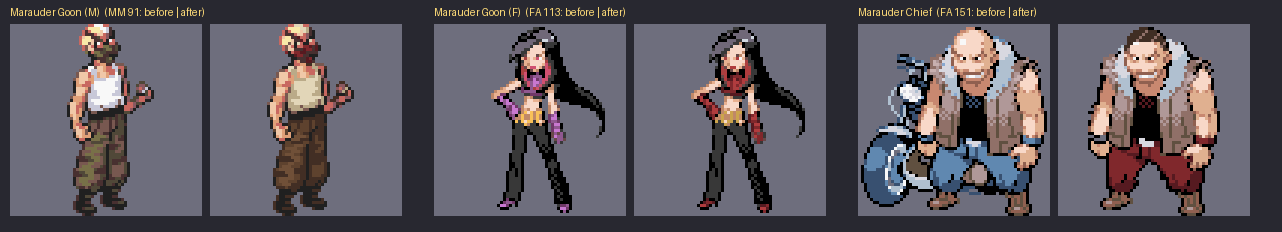
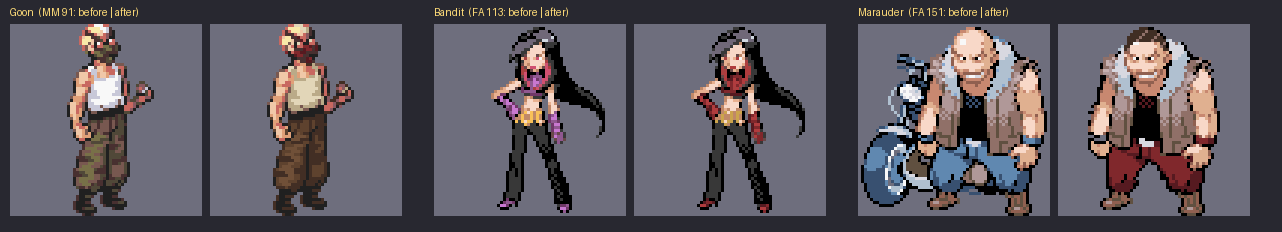
Marauders: class names Goon, Bandit and Marauder
The user: the male goon is a Goon, the female one a Bandit, the chief a
Marauder (all within the 12-character class name limit). Recorded in the
bible (20 section 16.6 item 8), the workflow notes and the sprite tools.

Claude-Session: https://claude.ai/code/session_01FHXnfqnedTHLf5QFbB3MCU

Changed region(s): [[0.0, 0.0302, 0.156, 0.0905], [0.3432, 0.0302, 0.4992, 0.0905], [0.6864, 0.0302, 0.8112, 0.0905]]

diff --git a/tools/npc/marauder/fronts.py b/tools/npc/marauder/fronts.py
@@ -1,10 +1,11 @@
 """The Marauders (user 2026-11-26): a trainer class of pillagers and thieves who rob travellers and sometimes band into
-gangs to invade towns. Three fronts, from the user's picks on marauder_cands_v1.png:
-  Marauder Goon (male)   <- MonoMyth 91, the bald thug: tank top to an undyed linen shirt, camo trousers to brown
+gangs to invade towns. Three fronts, from the user's picks on marauder_cands_v1.png. Class names (user 2026-11-26): the male goon is a
+**Goon**, the female one a **Bandit**, the chief a **Marauder** (the gang as a whole are the Marauders).
+  Goon (male)            <- MonoMyth 91, the bald thug: tank top to an undyed linen shirt, camo trousers to brown
                             leather, the camo face cloth to the gang's oxblood
-  Marauder Goon (female) <- Fantasma 113, the black-clad rogue: the purple top and gloves oxblood, the pink streak in
+  Bandit (female)        <- Fantasma 113, the black-clad rogue: the purple top and gloves oxblood, the pink streak in
                             her hair oxblood, black kept, the belt brass
-  Marauder Chief         <- Fantasma 151, the bald brute (user: "get rid of his bike, center him and give him a
+  Marauder (the chief)   <- Fantasma 151, the bald brute (user: "get rid of his bike, center him and give him a
                             little hair and more medieval clothing"): the motorcycle removed, the figure centred, a
                             short dark crop, the jeans and wristbands oxblood wool and leather (the gang's colour, worn
                             by the chief), the leather vest with its fur collar and the black shirt kept
@@ -169,8 +170,8 @@ def chief():
     return m2, pal
 
 
-FRONTS = [('Marauder Goon (M)', goon_m, 'MM_91'), ('Marauder Goon (F)', goon_f, 'FA_113'),
-          ('Marauder Chief', chief, 'FA_151')]
+FRONTS = [('Goon', goon_m, 'MM_91'), ('Bandit', goon_f, 'FA_113'),
+          ('Marauder', chief, 'FA_151')]
 
 if __name__ == '__main__':
     os.makedirs(os.path.join(HERE, 'out'), exist_ok=True)

diff --git a/tools/npc/marauder/walkers.py b/tools/npc/marauder/walkers.py
@@ -72,8 +72,8 @@ def chief():
     return idx, pal
 
 
-WALKERS = [('Marauder Goon (M)', goon_m, 'marauder_goon_m'), ('Marauder Goon (F)', goon_f, 'marauder_goon_f'),
-           ('Marauder Chief', chief, 'marauder_chief')]
+WALKERS = [('Goon', goon_m, 'marauder_goon_m'), ('Bandit', goon_f, 'marauder_goon_f'),
+           ('Marauder', chief, 'marauder_chief')]
 
 if __name__ == '__main__':
     os.makedirs(os.path.join(HERE, 'out'), exist_ok=True)

diff --git a/docs/chapter1_workflow.md b/docs/chapter1_workflow.md
@@ -465,5 +465,6 @@ Once the next few phases of Chapter 1 are further along, the user wants **anothe
   the bar's outline swept, the shins outlined.
   `marauder_fronts_v2.png`.
 - **Class names are 12 characters at most** (`struct TrainerClass` name[13]): "Marauder Goon" (13) and "Marauder
-  Chief" (14) do not fit as they stand. Open with the user.
+  Chief" (14) did not fit. **Decided (user 2026-11-26): the male goon is a "Goon", the female one a "Bandit", the
+  chief a "Marauder"** (the gang as a whole are still the Marauders). Eden's "Brigand" class: still open.
 

diff --git a/bible/20_chapter1_build.md b/bible/20_chapter1_build.md
@@ -95,6 +95,8 @@ Opt-in per character (the Pokémon Empire model): **dialogue is portrait-less by
 
 8. **Marauders** (`[NEW canon — user 2026-11-26]`): a trainer class of **pillagers and thieves who rob and steal from
    travellers**, and on occasion **form gangs to invade towns**. Named Marauders, not Brigands, as the new class.
+   Three trainer classes in the gang (user 2026-11-26): **Goon** (male), **Bandit** (female) and their chief, the
+   **Marauder**.
 
 ### 16.7 Sprite-asset inventory (committed to the repo)
 
